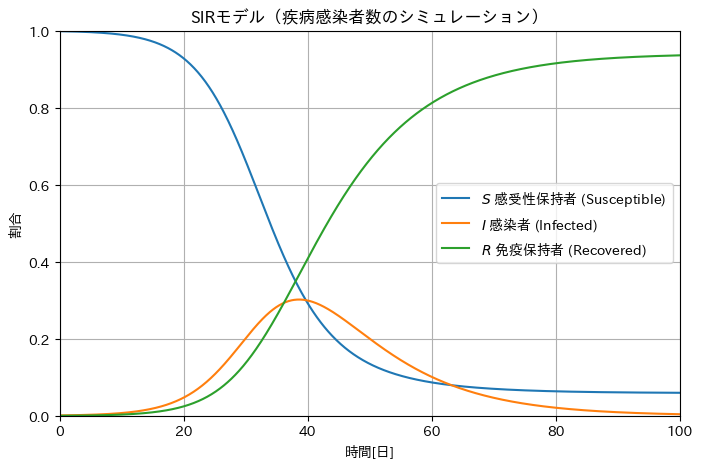
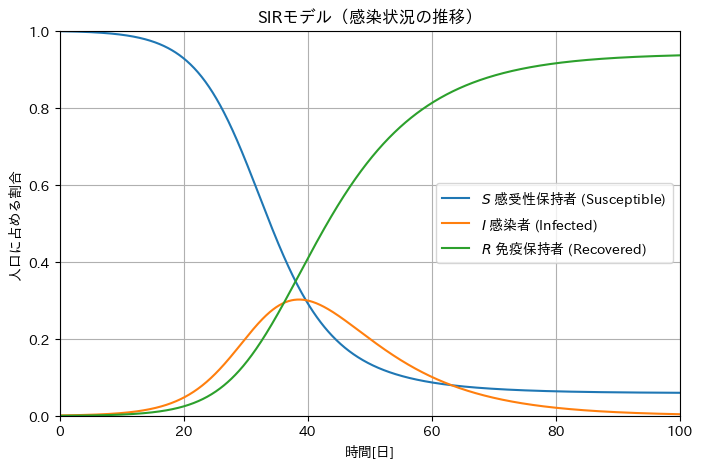
Update py52 SIR terminology and graph

Changed region(s): [[0.2692, 0.0, 0.7778, 0.0598], [0.688, 0.5085, 0.9274, 0.5684], [0.0, 0.359, 0.0299, 0.5983]]

diff --git a/py52.html b/py52.html
@@ -310,7 +310,7 @@ plt.show()
     
     
     <article>
-      <h2 id="headline_6">(6) 疾病感染者数のシミュレーション</h2>
+      <h2 id="headline_6">(6) 感染状況の推移</h2>
 
       <h3>SIRモデル</h3>
       <p>SIRモデルは感染症の流行をシミュレーションする単純な数理モデルです。原型となったのは、W・O・カーマックとA・G・マッケンドリックによる1927年に報告された論文で、単純なSIRモデルであっても1905年のボンベイにおけるペスト流行のデータをうまく再現できることで知られています。</p>
@@ -351,7 +351,7 @@ plt.show()
 
       
       
-      <pre class="python" data-title="疾病感染者数のシミュレーション"><code>
+      <pre class="python" data-title="感染状況の推移"><code>
 import matplotlib.pyplot as plt
 import japanize_matplotlib
 
@@ -401,18 +401,18 @@ plt.plot(x, yS, label="$S$ 感受性保持者 (Susceptible) ")
 plt.plot(x, yI, label="$I$ 感染者 (Infected)")
 plt.plot(x, yR, label="$R$ 免疫保持者 (Recovered)")
 plt.xlabel("時間[日]")
-plt.ylabel("割合")
+plt.ylabel("人口に占める割合")
 plt.legend()
-plt.title("SIRモデル（疾病感染者数のシミュレーション）")
+plt.title("SIRモデル（感染状況の推移）")
 plt.grid(True)
 
 plt.show()
       </code></pre>
-      <div class="result"><img src="./img/py52_601.png" class="pyplot" alt="SIRモデルのシミュレーショングラフ" decoding="async" loading="lazy"></div>
+      <div class="result"><img src="./img/py52_601.png" class="pyplot" alt="SIRモデルによる感染状況の推移グラフ" decoding="async" loading="lazy"></div>
 
       <dl>
         <dt>感染の拡大</dt>
-        <dd>初期段階では\(S\) が多く、\(I\) が少ない状態からスタートします。しかし、\(I\) の数が増加すると、\(S\) から\(I\) への移行が増え、感染が拡大します。</dd>
+        <dd>初期段階では\(S\) が多く、\(I\) が少ない状態からスタートします。しかし、\(I\) の割合が増加すると、\(S\) から\(I\) への移行が増え、感染が拡大します。</dd>
 
         <dt>感染のピーク</dt>
         <dd>ある点で\(I\) が最大に達し、その後は減少し始めます。これは、多くの人々が感染から回復し始め、また新たに感染する\(S\) の割合が減少するためです。</dd>
